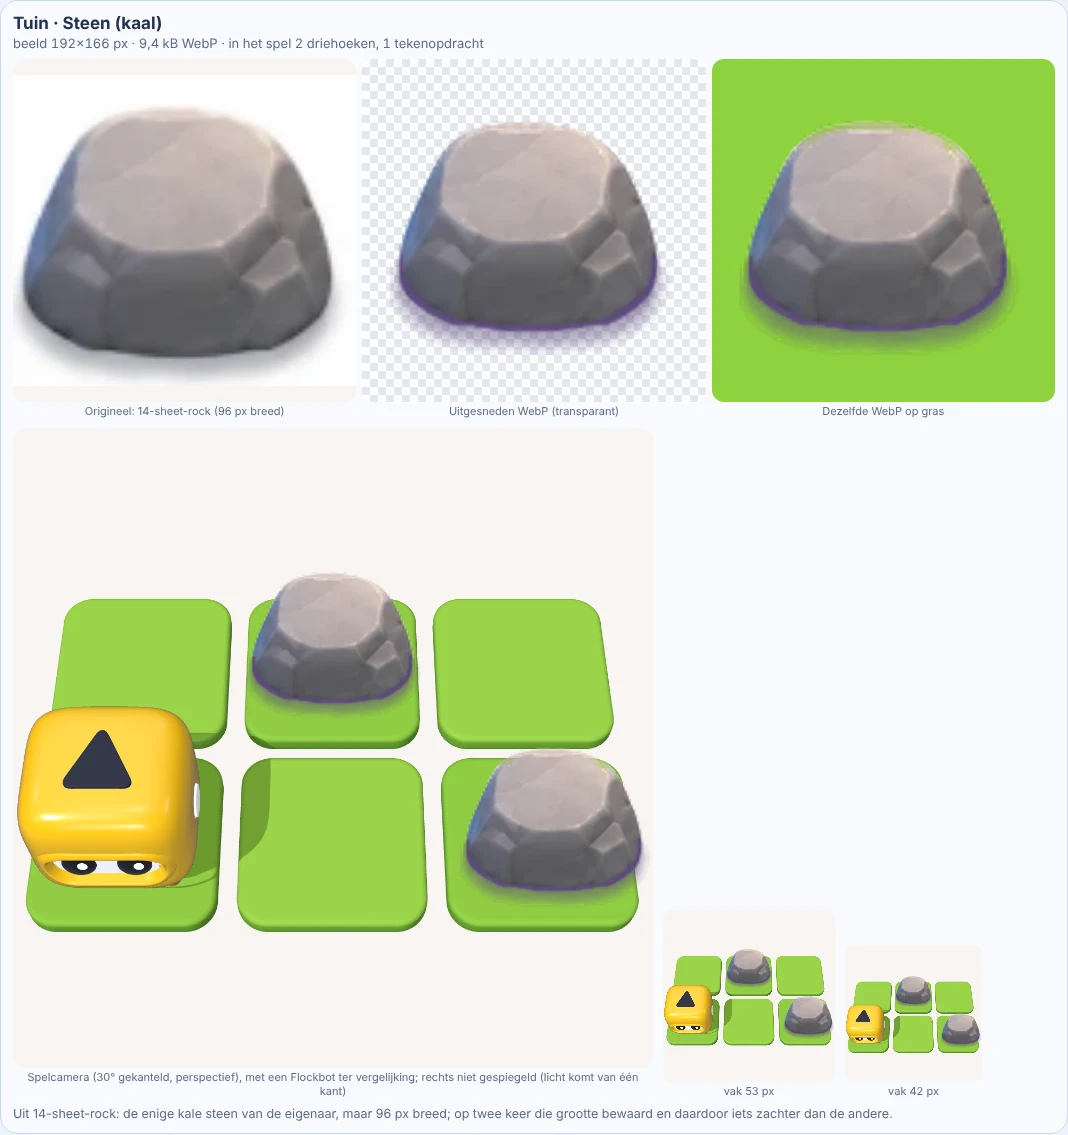
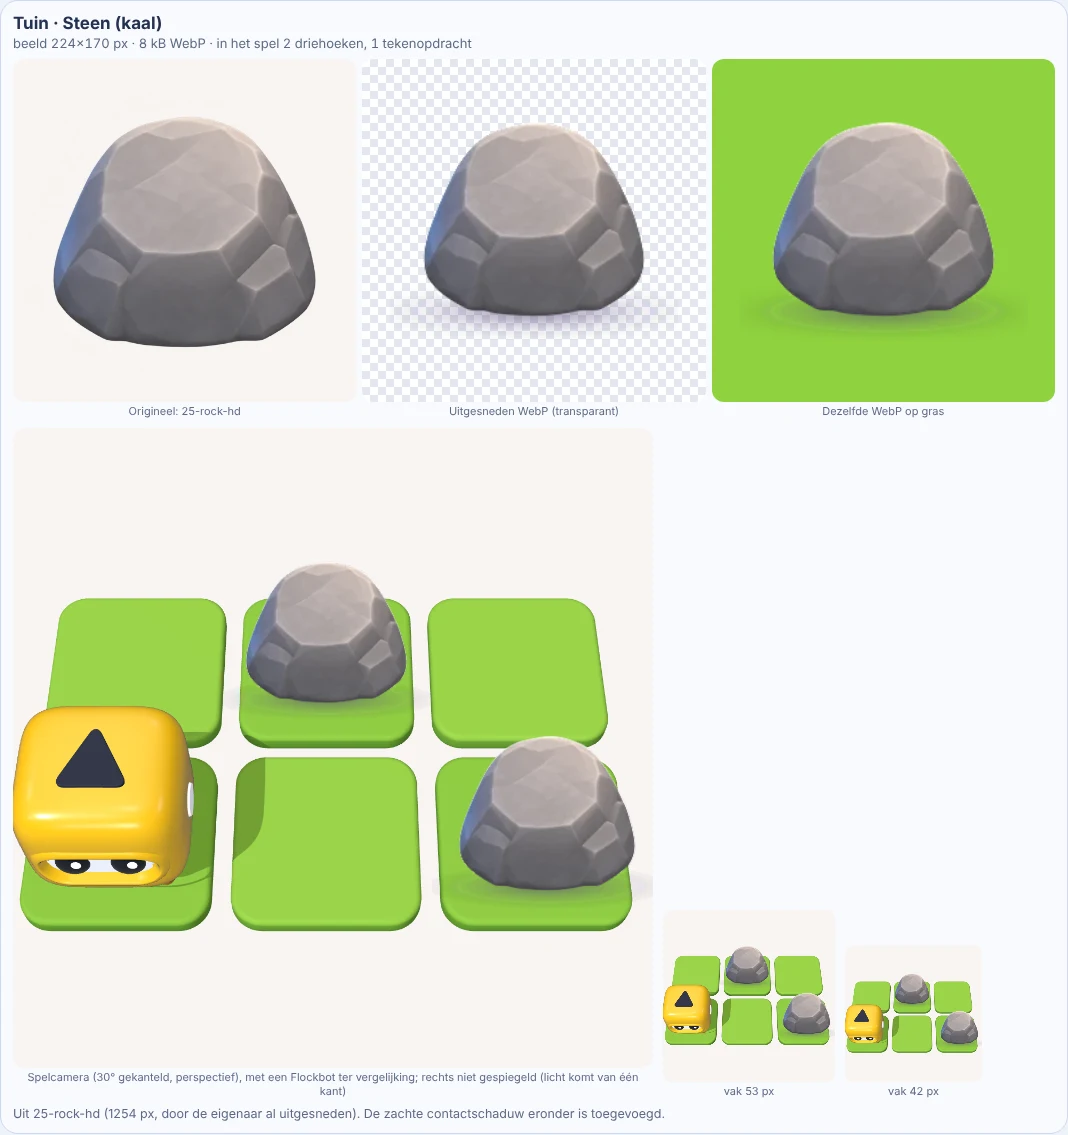
feat: owner's high-resolution rocks and stump replace the earlier garden cut-outs
The owner supplied 1254 px cut-outs of the plain rock, the lightly mossy rock (sharp 04),
the mossy rock (sharp 15) and the stump (sharp 05), stored as references 25-28. The
pipeline keeps their edge and adds a soft contact shadow; the lightly mossy rock becomes a
third rock variant (rockMossLight). Obstacles now 73.0 kB together. Parts page, tests,
evidence and design doc updated.

Design: design/themes/garden-obstacles.md

Claude-Session: https://claude.ai/code/session_01PBSmYsU5LDsQQh61Sre1Rv

diff --git a/src/parts/garden-obstacles.ts b/src/parts/garden-obstacles.ts
@@ -8,6 +8,7 @@ import { shadeByHeight, roundedBlock } from '../render/parts/shapes';
 import { buildObstacle, GARDEN_OBSTACLE_KINDS, OBSTACLE_SPRITES, obstaclePicturesLoaded } from '../render/parts/garden/obstacles';
 import spriteData from '../../data/themes/garden/obstacle-sprites.json';
 import rockWebp from '../../assets/turnflock/garden/obstacles/rock.webp';
+import rockMossLightWebp from '../../assets/turnflock/garden/obstacles/rock-moss-light.webp';
 import rockMossyWebp from '../../assets/turnflock/garden/obstacles/rock-mossy.webp';
 import stumpWebp from '../../assets/turnflock/garden/obstacles/stump.webp';
 import bushWhiteWebp from '../../assets/turnflock/garden/obstacles/bush-white.webp';
@@ -18,10 +19,11 @@ import flowerWhiteWebp from '../../assets/turnflock/garden/obstacles/plant-flowe
 import flowerPinkWebp from '../../assets/turnflock/garden/obstacles/plant-flower-pink.webp';
 import { chooseObstacles, type GardenObstacleKind } from '../render/parts/garden/obstacleChoice';
 import data from '../../data/themes/garden/obstacles.json';
-import refRock from './garden-ref/rock.webp';
-import refStump from './garden-ref/stump.webp';
+import refRockHd from './garden-ref/rock-hd.webp';
+import refRockMossLightHd from './garden-ref/rock-moss-light-hd.webp';
+import refRockMossyHd from './garden-ref/rock-mossy-hd.webp';
+import refStumpHd from './garden-ref/stump-hd.webp';
 import refBush from './garden-ref/bush.webp';
-import refSheetRock from './garden-ref/sheet-rock.webp';
 import refSheetPlants from './garden-ref/sheet-plants.webp';
 import './garden-obstacles.css';
 
@@ -150,26 +152,29 @@ function cost(o: THREE.Object3D): { triangles: number; draws: number } {
 
 const NAMES: Record<GardenObstacleKind, string> = {
   rock: 'Steen (kaal)',
+  rockMossLight: 'Steen met een beetje mos',
   rockMossy: 'Steen met mos',
   stump: 'Boomstronk',
   bushWhite: 'Bosje met witte bloemen',
   bushPink: 'Bosje met roze bloemen',
 };
 const NOTES: Record<GardenObstacleKind, string> = {
-  rock: 'Uit 14-sheet-rock: de enige kale steen van de eigenaar, maar 96 px breed; op twee keer die grootte bewaard en daardoor iets zachter dan de andere.',
-  rockMossy: 'Uit 04-rock (1254 px): die steen heeft zelf al mos, dus hij is de steen met mos.',
-  stump: 'Uit 05-stump (1254 px), met de blaadjes en de ingebakken schaduw.',
-  bushWhite: 'Uit 06-bush-flowers (1254 px).',
+  rock: 'Uit 25-rock-hd (1254 px, door de eigenaar al uitgesneden). De zachte contactschaduw eronder is toegevoegd.',
+  rockMossLight: 'Uit 26-rock-moss-light-hd (1254 px, al uitgesneden): de scherpe versie van 04-rock. Derde stenenvariant. Contactschaduw toegevoegd.',
+  rockMossy: 'Uit 27-rock-mossy-hd (1254 px, al uitgesneden): de scherpe versie van 15-sheet-rock-mossy. Contactschaduw toegevoegd.',
+  stump: 'Uit 28-stump-hd (1254 px, al uitgesneden), met de blaadjes. Contactschaduw toegevoegd.',
+  bushWhite: 'Uit 06-bush-flowers (1254 px), met de ingebakken schaduw.',
   bushPink: 'Uit 06-bush-flowers (1254 px) met de drie witte bloemen roze, lila en lichtroze bijgekleurd, zoals op 17-sheet-bushes-plants; het roze bosje bestaat daar alleen op 83 px.',
 };
 const REFS: Record<GardenObstacleKind, [string, string]> = {
-  rock: [refSheetRock, '14-sheet-rock (96 px breed)'],
-  rockMossy: [refRock, '04-rock'],
-  stump: [refStump, '05-stump'],
+  rock: [refRockHd, '25-rock-hd'],
+  rockMossLight: [refRockMossLightHd, '26-rock-moss-light-hd'],
+  rockMossy: [refRockMossyHd, '27-rock-mossy-hd'],
+  stump: [refStumpHd, '28-stump-hd'],
   bushWhite: [refBush, '06-bush-flowers'],
   bushPink: [refSheetPlants, '17-sheet-bushes-plants (roze bosje: tweede van links)'],
 };
-const WEBP: Record<GardenObstacleKind, string> = { rock: rockWebp, rockMossy: rockMossyWebp, stump: stumpWebp, bushWhite: bushWhiteWebp, bushPink: bushPinkWebp };
+const WEBP: Record<GardenObstacleKind, string> = { rock: rockWebp, rockMossLight: rockMossLightWebp, rockMossy: rockMossyWebp, stump: stumpWebp, bushWhite: bushWhiteWebp, bushPink: bushPinkWebp };
 
 function figure(content: HTMLElement, caption: string, className = ''): HTMLElement {
   const f = document.createElement('figure');

diff --git a/src/render/parts/garden/obstacles.ts b/src/render/parts/garden/obstacles.ts
@@ -3,6 +3,7 @@ import { CONFIG } from '../../../config';
 import data from '../../../../data/themes/garden/obstacles.json';
 import sprites from '../../../../data/themes/garden/obstacle-sprites.json';
 import rockUrl from '../../../../assets/turnflock/garden/obstacles/rock.webp';
+import rockMossLightUrl from '../../../../assets/turnflock/garden/obstacles/rock-moss-light.webp';
 import rockMossyUrl from '../../../../assets/turnflock/garden/obstacles/rock-mossy.webp';
 import stumpUrl from '../../../../assets/turnflock/garden/obstacles/stump.webp';
 import bushWhiteUrl from '../../../../assets/turnflock/garden/obstacles/bush-white.webp';
@@ -10,7 +11,7 @@ import bushPinkUrl from '../../../../assets/turnflock/garden/obstacles/bush-pink
 import type { GardenObstacleKind } from './obstacleChoice';
 
 /** Every garden obstacle kind, in the order the parts page shows them. */
-export const GARDEN_OBSTACLE_KINDS: readonly GardenObstacleKind[] = ['rock', 'rockMossy', 'stump', 'bushWhite', 'bushPink'];
+export const GARDEN_OBSTACLE_KINDS: readonly GardenObstacleKind[] = ['rock', 'rockMossLight', 'rockMossy', 'stump', 'bushWhite', 'bushPink'];
 
 /**
  * The garden theme's obstacles as the owner drew them: each one is the
@@ -22,6 +23,7 @@ export const GARDEN_OBSTACLE_KINDS: readonly GardenObstacleKind[] = ['rock', 'ro
 
 const URLS: Readonly<Record<GardenObstacleKind, string>> = {
   rock: rockUrl,
+  rockMossLight: rockMossLightUrl,
   rockMossy: rockMossyUrl,
   stump: stumpUrl,
   bushWhite: bushWhiteUrl,

diff --git a/src/render/parts/garden/obstacleChoice.ts b/src/render/parts/garden/obstacleChoice.ts
@@ -1,7 +1,7 @@
 import data from '../../../../data/themes/garden/obstacles.json';
 
 /** The garden obstacles a wall cell can show. */
-export type GardenObstacleKind = 'rock' | 'rockMossy' | 'stump' | 'bushWhite' | 'bushPink';
+export type GardenObstacleKind = 'rock' | 'rockMossLight' | 'rockMossy' | 'stump' | 'bushWhite' | 'bushPink';
 /** Obstacles that read as "the same thing": two of one family never sit side by side. */
 export type GardenObstacleFamily = 'rock' | 'stump' | 'bush';
 
@@ -23,6 +23,7 @@ export const DEFAULT_WEIGHTS: ChoiceWeights = data.choice as ChoiceWeights;
 /** Family of each kind. */
 export const FAMILY_OF: Readonly<Record<GardenObstacleKind, GardenObstacleFamily>> = {
   rock: 'rock',
+  rockMossLight: 'rock',
   rockMossy: 'rock',
   stump: 'stump',
   bushWhite: 'bush',
@@ -71,7 +72,7 @@ function weighted<T extends string>(options: readonly T[], weight: (o: T) => num
  * 2. The family (rock, bush, stump) is drawn by weight from the hash, leaving
  *    out the families of the wall directly to the left and directly above,
  *    which were chosen before. Two touching walls are never the same family.
- * 3. The variant within the family (plain or mossy rock, white or pink bush)
+ * 3. The variant within the family (plain, lightly mossy or mossy rock; white or pink bush)
  *    and the quarter turn come from other bits of the same hash.
  *
  * Nothing is random: the same level always looks the same. Returns one entry

diff --git a/tools/asset-pipeline/garden-obstacles.py b/tools/asset-pipeline/garden-obstacles.py
@@ -1,8 +1,9 @@
 #!/usr/bin/env python3
 """Cut the garden-theme obstacles out of the owner's pictures.
 
-Reads  design/reference/turnflock/garden/04-rock.png, 05-stump.png,
-       06-bush-flowers.png, 14-sheet-rock.png, 17-sheet-bushes-plants.png
+Reads  design/reference/turnflock/garden/25-rock-hd.webp, 26-rock-moss-light-hd.webp,
+       27-rock-mossy-hd.webp, 28-stump-hd.webp (already cut out by the owner),
+       06-bush-flowers.png, 17-sheet-bushes-plants.png
 Writes assets/turnflock/garden/obstacles/*.webp   (transparent, baked shadow kept)
        data/themes/garden/obstacle-sprites.json   (size and foot of each picture)
 
@@ -16,8 +17,10 @@ The owner's picture is the part: nothing is drawn. Per picture:
    dark lavender, so the piece still sits on the tile.
 5. Cropped, scaled with premultiplied alpha (no dark fringe) and saved as WebP.
 
-The plain rock exists only on 14-sheet-rock (96 px wide) and is kept at twice
-that size. The pink bush is made from 06-bush-flowers by retinting its white
+The three rocks and the stump come already cut out (transparent, no shadow):
+their own edge is kept and a soft lavender contact shadow, in the colour and
+strength of the bushes' baked shadow, is added under them so they sit on the
+tile. The pink bush is made from 06-bush-flowers by retinting its white
 flowers pink and lilac, as on 17-sheet-bushes-plants, because the pink bush
 exists only at 83 px there; the smallest flower stays white, as on the sheet.
 
@@ -39,9 +42,10 @@ PLANT_FLOWER = 128     # px, longest side of a loose flower
 OBJECT_STEP = 40       # colour distance from the background that ends "background"
 SHADOW = np.array([92.0, 74.0, 124.0])   # colour the baked shadow is kept in
 QUALITY = 88
-SHADOW_LUM = 172       # for the grey rock: baked-shadow pixels are lighter than this; darker ones are rock
-DARK_FOOT = 80         # the rock's foot line is darker than this
-COLOURED_SHADOW_LUM = 60   # stump and bush are never grey, so every grey-lavender pixel low down is shadow
+SHADOW_LUM = 172       # for a grey object (default of cut()): baked-shadow pixels are lighter than this
+DARK_FOOT = 80         # ... and a grey object's foot line is darker than this
+COLOURED_SHADOW_LUM = 60   # bushes are never grey, so every grey-lavender pixel low down is shadow
+CONTACT_SHADOW = 0.5   # strength of the shadow added under the owner's ready cut-outs, at its centre
 
 
 def load(name):
@@ -219,6 +223,29 @@ def pink_flowers(rgb, obj, tints):
     return out
 
 
+def from_cutout(name):
+    """A picture the owner supplied already cut out: its own alpha, stray specks dropped, a soft contact shadow added."""
+    a = np.asarray(Image.open(SRC / name).convert('RGBA')).astype(np.float64)
+    rgb, alpha = a[..., :3], a[..., 3] / 255.0
+    # The owner's cut-outs top out just under full alpha (253): make the body solid.
+    alpha = np.clip(alpha / 0.98, 0, 1)
+    parts = components(alpha > 0.5, 200)
+    keep = max(parts, key=lambda m: m.sum())
+    big = [m for m in parts if m.sum() > 0.02 * keep.sum()]
+    near = morph(np.any(big, axis=0), 5, grow=True)
+    alpha = np.where(near, alpha, 0)
+    obj = alpha > 0.5
+    ys, xs = np.nonzero(obj)
+    foot, left, right = ys.max(), xs.min(), xs.max()
+    width = right - left
+    yy, xx = np.mgrid[0:alpha.shape[0], 0:alpha.shape[1]]
+    d = ((xx - (left + right) / 2) / (0.6 * width)) ** 2 + ((yy - foot + 0.02 * width) / (0.11 * width)) ** 2
+    shade = CONTACT_SHADOW * np.exp(-2.4 * d)
+    out_a = alpha + shade * (1 - alpha)
+    colour = (rgb * alpha[..., None] + SHADOW * (shade * (1 - alpha))[..., None]) / np.maximum(out_a, 1e-6)[..., None]
+    return colour, out_a, obj
+
+
 def save(colour, alpha, obj, name, longest=None, scale=None):
     ys, xs = np.nonzero(alpha > 0.02)
     y0, y1 = max(0, ys.min() - 4), min(alpha.shape[0], ys.max() + 5)
@@ -250,13 +277,10 @@ def save(colour, alpha, obj, name, longest=None, scale=None):
 
 def main():
     meta = {}
-    c, a, o = cut(load('04-rock.png'))
-    meta['rockMossy'] = save(c, a, o, 'rock-mossy', LONGEST)
-    # The plain rock exists only on the small sheet (96 px wide): kept at twice its size.
-    c, a, o = cut(load('14-sheet-rock.png'))
-    meta['rock'] = save(c, a, o, 'rock', scale=2)
-    c, a, o = cut(load('05-stump.png'), shadow_lum=COLOURED_SHADOW_LUM)
-    meta['stump'] = save(c, a, o, 'stump', LONGEST)
+    for kind, name, source in [('rock', 'rock', '25-rock-hd.webp'), ('rockMossLight', 'rock-moss-light', '26-rock-moss-light-hd.webp'),
+                               ('rockMossy', 'rock-mossy', '27-rock-mossy-hd.webp'), ('stump', 'stump', '28-stump-hd.webp')]:
+        c, a, o = from_cutout(source)
+        meta[kind] = save(c, a, o, name, LONGEST)
     bush = load('06-bush-flowers.png')
     c, a, o = cut(bush, shadow_lum=COLOURED_SHADOW_LUM)
     meta['bushWhite'] = save(c, a, o, 'bush-white', LONGEST)

diff --git a/design/themes/garden-obstacles.md b/design/themes/garden-obstacles.md
@@ -7,8 +7,11 @@ theme session swaps it in. Reference pictures: `design/reference/turnflock/garde
 
 ## Default: the owner's pictures (decision 2026-11-24)
 
-The owner's picture is the part. `tools/asset-pipeline/garden-obstacles.py` cuts each
-one out of the reference picture (background made transparent with an un-mixed edge,
+The owner's picture is the part. The rocks and the stump were supplied already cut
+out at 1254 px (`25`–`28` in the reference folder); they keep their own edge and get a
+soft lavender contact shadow (`CONTACT_SHADOW`, the colour of the bushes' baked shadow)
+so they sit on the tile. The bushes are cut by `tools/asset-pipeline/garden-obstacles.py`
+out of the reference picture (background made transparent with an un-mixed edge,
 no halo; the baked soft shadow kept as semi-transparent lavender), scales it with
 premultiplied alpha and saves a WebP in `assets/turnflock/garden/obstacles/`. It also
 writes `data/themes/garden/obstacle-sprites.json` (picture size, where the object and
@@ -16,12 +19,13 @@ its foot sit in the picture). Rerun the tool after changing a source picture.
 
 | Kind | Source | Picture | Size |
 |---|---|---|---|
-| `rock` | `14-sheet-rock` (only plain rock; 96 px wide), kept at 2x | 192×166 | 9.4 kB |
-| `rockMossy` | `04-rock` (1254 px; that rock has moss) | 224×190 | 10.3 kB |
-| `stump` | `05-stump` (1254 px) | 224×192 | 13.7 kB |
-| `bushWhite` | `06-bush-flowers` (1254 px) | 224×222 | 16.7 kB |
+| `rock` | `25-rock-hd` (1254 px, cut out by the owner) + contact shadow | 224×170 | 8.0 kB |
+| `rockMossLight` | `26-rock-moss-light-hd` (sharp version of `04-rock`) + contact shadow | 224×157 | 8.3 kB |
+| `rockMossy` | `27-rock-mossy-hd` (sharp version of `15-sheet-rock-mossy`) + contact shadow | 224×173 | 10.2 kB |
+| `stump` | `28-stump-hd` (sharp version of `05-stump`) + contact shadow | 224×183 | 13.0 kB |
+| `bushWhite` | `06-bush-flowers` (1254 px), baked shadow kept | 224×222 | 16.7 kB |
 | `bushPink` | `06-bush-flowers`, white flowers retinted pink / lilac / light pink as on `17-sheet-bushes-plants` (whose pink bush is only 83 px) | 224×222 | 16.7 kB |
-| **Obstacles together** | | | **66.9 kB** |
+| **Obstacles together** | | | **73.0 kB** |
 | `plant-sprig`, `plant-grass` | `17-sheet-bushes-plants`, 2x | ~120×102 | 6.5 / 6.2 kB |
 | `plant-flower-white`, `plant-flower-pink` | biggest flower of `06-bush-flowers` (pink: retinted) | 128×114 | 5.8 / 6.5 kB |
 
@@ -40,7 +44,7 @@ square to the game camera (30° from straight down, looking towards -z;
 then moved `sprite.lift` (0.3) along the view towards the camera, which changes nothing
 on screen but keeps a robot standing behind from cutting into the top of the picture.
 An odd `turn` mirrors the stump and bushes (lit from the front); the rocks are never
-mirrored (the light comes from one side).
+mirrored (their light comes from one side).
 
 **For the theme session:** place it exactly like the robot block. The card casts no
 shadow (the shadow is in the picture): `fuse()` in `kit.ts` sets `castShadow` on every
@@ -61,7 +65,7 @@ Walls are visited row by row from the top left. For each wall cell:
    from the low 16 bits of `h`, **leaving out the families of the wall directly left and directly
    above** (already chosen). So two walls that touch are never the same family. With three
    families and at most two taken there is always one left.
-3. Variant within the family (`choice.variants`: plain or mossy rock, white or pink bush) from bits 16–23.
+3. Variant within the family (`choice.variants`: plain, lightly mossy or mossy rock at 0.4 / 0.3 / 0.3; white or pink bush) from bits 16–23.
 4. Quarter turn from bits 24–25, so two copies of one kind still differ (an odd turn mirrors the stump and the bushes).
 
 A level therefore always looks the same, a long wall alternates (bush, stump, rock, …), and
@@ -70,15 +74,12 @@ over all shipped levels and an all-wall board.
 
 ## Known differences of the pictures from the originals
 
-- Plain rock: the owner's only plain rock is the 96 px sheet cut, so at 2x it is softer
-  than the others and keeps that sheet's dark purple line along its foot and a slightly
-  stepped top edge.
-- Mossy rock: a couple of light pixels remain at the very ends of the foot, where the
-  rock's dark contact line stops.
+- Rocks and stump: the contact shadow under them is added (the supplied cut-outs have
+  none); everything else is the owner's picture, scaled down.
 - Pink bush: retinted from the white bush, so it is the same bush with pink, lilac and
   light-pink flowers rather than the sheet's slightly different pink bush.
-- The baked shadow is kept but slightly lighter and more lavender than in the original,
-  so it reads on green grass.
+- The bushes' baked shadow is kept but slightly lighter and more lavender than in the
+  original, so it reads on green grass.
 - A picture always shows the object from the front, while the board is seen from above:
   usual for this style, but the stump's top and the bush's crown are seen less from above
   than the tiles around them.

diff --git a/design/reference/turnflock/garden/README.md b/design/reference/turnflock/garden/README.md
@@ -18,6 +18,10 @@ compressed and the size is reported.
 | 13-sheet-tile-dirt | Dirt tile with a grass edge (possible new tile type) | Board |
 | 04-rock, 14-sheet-rock, 15-sheet-rock-mossy | Rock, plain and mossy | Obstacles |
 | 05-stump, 16-sheet-stump | Tree stump with leaves | Obstacles |
+| 25-rock-hd | Plain rock, high resolution, already cut out (transparent) — supplied later, replaces 14 | Obstacles |
+| 26-rock-moss-light-hd | Rock with a little moss (as 04), high resolution, cut out | Obstacles |
+| 27-rock-mossy-hd | Mossy rock (as 15), high resolution, cut out — replaces 15 | Obstacles |
+| 28-stump-hd | Tree stump with leaves (as 05), high resolution, cut out — replaces 05 | Obstacles |
 | 06-bush-flowers, 17-sheet-bushes-plants | Bushes with white or pink flowers; leaf, grass tuft, white and pink flower | Obstacles / decor |
 | 08-gazebo, 24-sheet-gazebo-goal | Gazebo with flag; as the goal with a glowing green pad and check | Exit |
 | 22-sheet-exit-pad-states | Exit pad: grey, green, green with rays | Exit |
